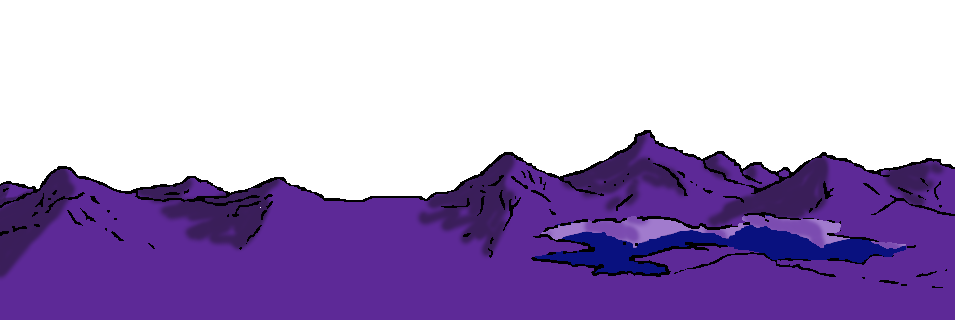
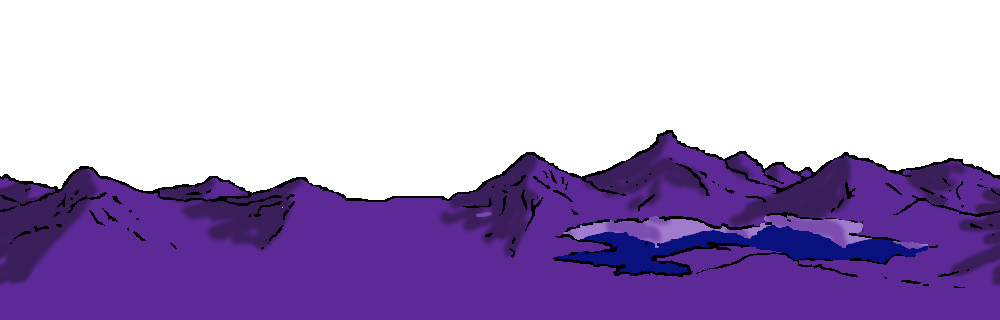
Background mountains looping

diff --git a/css/style.css b/css/style.css
@@ -298,6 +298,9 @@ img {
 
 
 #footer-transition-wrapper {
+    background-image: url("/images/footer_mountains.png");
+    background-repeat: repeat-x;
+    background-position: 60% center;
     display: flex;
     flex-direction: row;
     align-items: center;
